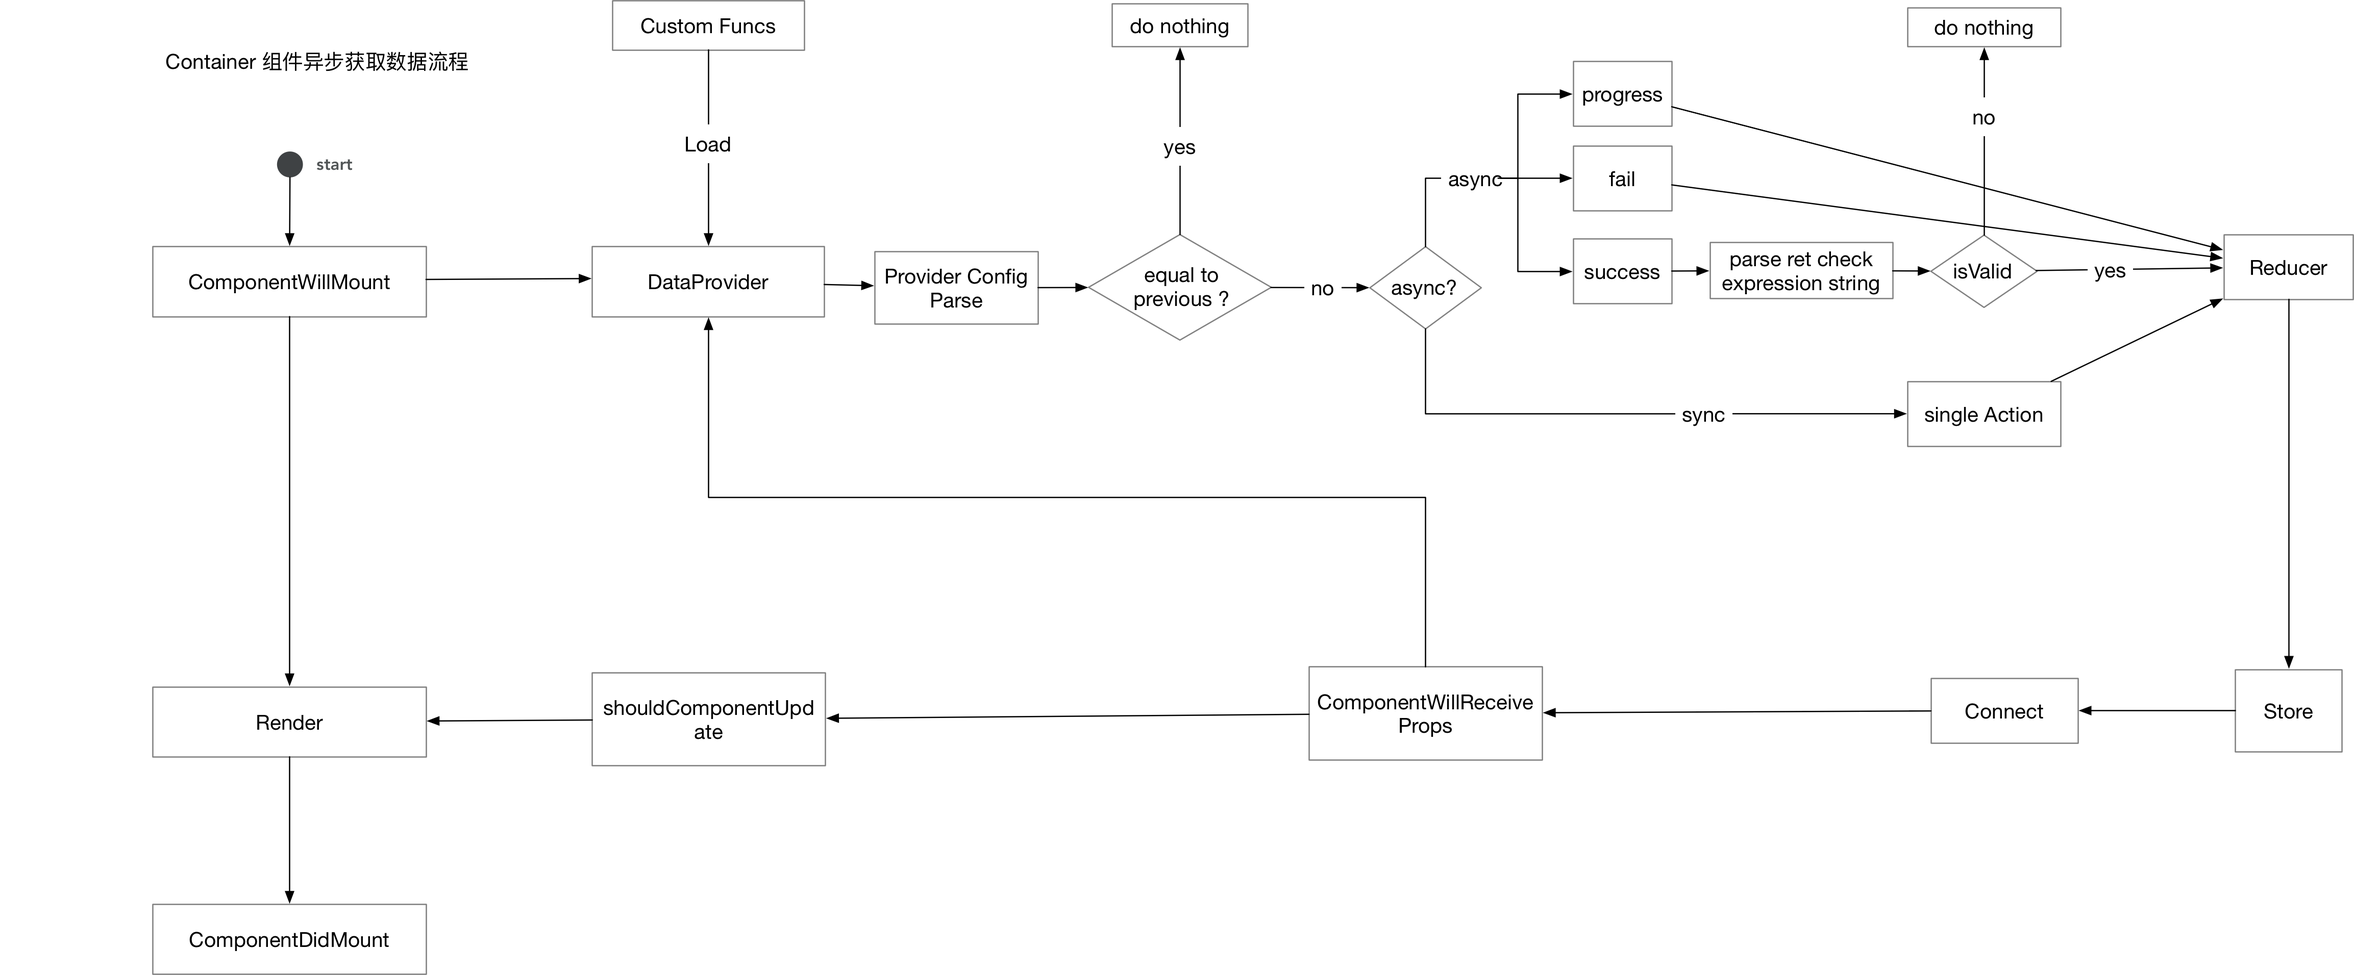
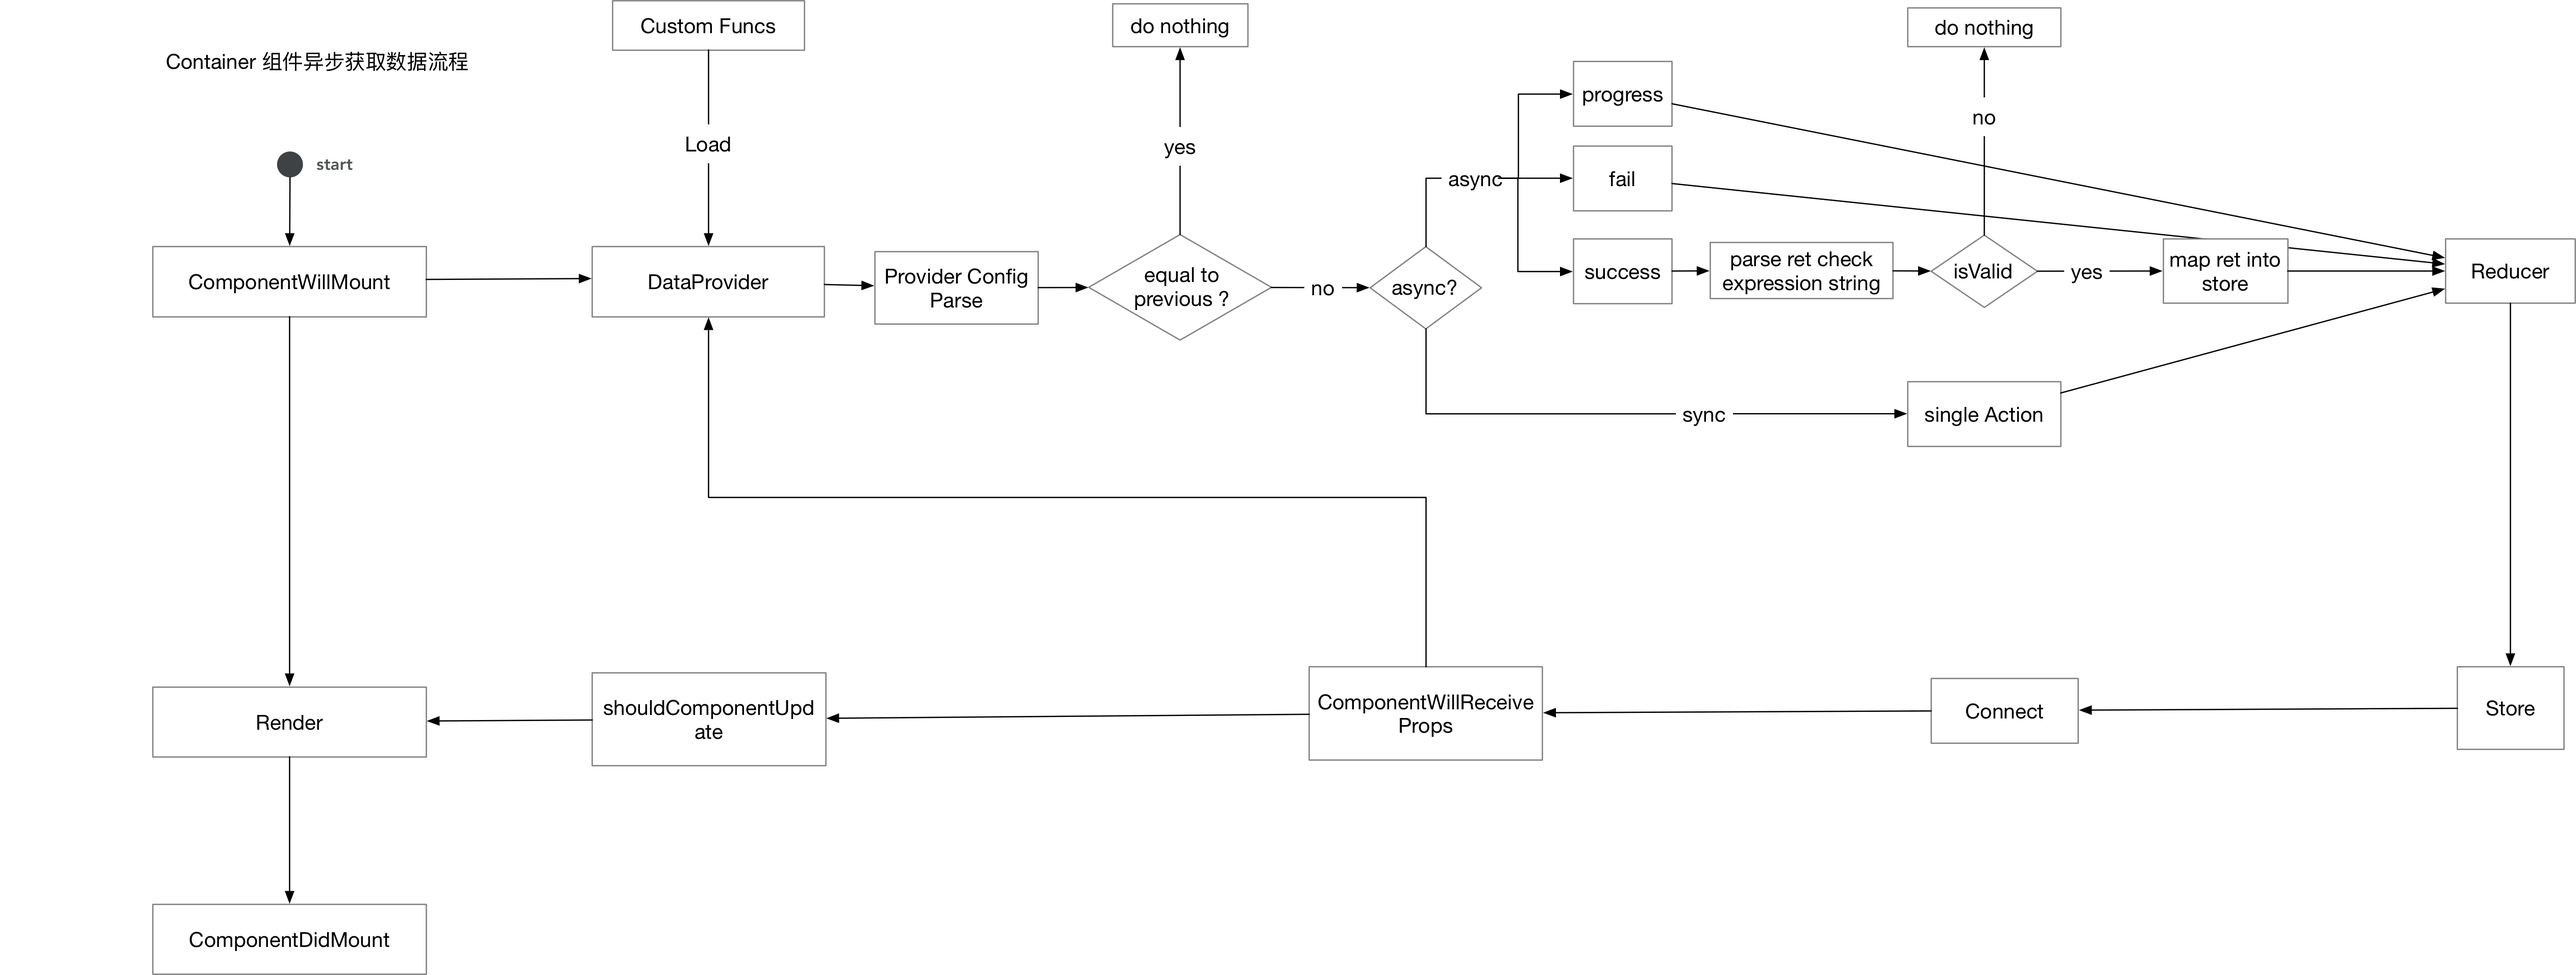
upgrade new DataFlow Design

diff --git a/src/render/core/Container/index.tsx b/src/render/core/Container/index.tsx
@@ -3,12 +3,13 @@ import * as _ from 'lodash';
 import {BasicContainer, BasicContainerPropsInterface, ContainerProps} from './types';
 import {connect} from 'react-redux';
 import {bindActionCreators, Dispatch} from 'redux';
-import {actionCreators, IAction, SET_DATA_LIST_PAYLOAD} from './action';
+import {actionCreators, IAction} from './action';
 import {RootState} from '../../data/reducers';
 import {Map} from 'immutable';
-import {compileValueExpress, keepExpressionData} from '../../util/vm';
+// import {compileValueExpress, keepExpressionData} from '../../util/vm';
 import {createChild} from '../../util/createChild';
 import {DataProvider} from '../DataProvider/Controller';
+import {ContainerPropsInterface} from '../../../abstractComponents/Container/Container';
 
 // First Init Life Circle:
 // ComponentWillMount -> Render -> ComponentDidMount
@@ -60,10 +61,6 @@ class Container extends BasicContainer<ContainerProps, {}> {
     }
 
     async componentWillReceiveProps(nextProps: ContainerProps) {
-        if (this.props.$parent !== nextProps.$parent) {
-            this.syncUpdateData(this.props.info.model!, nextProps);   
-        }
-
         const providerActions = {
             setDataList: this.props.setDataList,
             asyncLoadDataProgress: this.props.asyncLoadDataProgress,
@@ -125,38 +122,38 @@ class Container extends BasicContainer<ContainerProps, {}> {
         );
     }
 
-    /**
-     * Update data When ComponentWillReceiveProps
-     * This function will parse the expression string in data property from JSON
-     * including $parent and $response
-     * Then call this.props.setDataList to update data
-     *
-     * @param {string} model
-     * @param {ContainerProps} props
-     */
-    private syncUpdateData(model: string, props: ContainerProps) {
-        if (!props.info.data) {
-            props.info.data = {};
-        }
-
-        let updateExpression = keepExpressionData(props.info.data);
-
-        if (!_.isEmpty(updateExpression)) {
-            let updateData = compileValueExpress(updateExpression, {
-                $parent: props.$parent.toObject(),
-                $data: props.$data.toObject()
-            });
-
-            let payloads: SET_DATA_LIST_PAYLOAD = [];
-            _.each(updateData, (val, name) => {
-                payloads.push({
-                    type: name,
-                    newValue: val
-                });
-            });
-            this.props.setDataList(payloads, model);
-        }
-    }
+    // /**
+    //  * Update data When ComponentWillReceiveProps
+    //  * This function will parse the expression string in data property from JSON
+    //  * including $parent and $response
+    //  * Then call this.props.setDataList to update data
+    //  *
+    //  * @param {string} model
+    //  * @param {ContainerProps} props
+    //  */
+    // private syncUpdateData(model: string, props: ContainerProps) {
+    //     if (!props.info.data) {
+    //         props.info.data = {};
+    //     }
+    //
+    //     let updateExpression = keepExpressionData(props.info.data);
+    //
+    //     if (!_.isEmpty(updateExpression)) {
+    //         let updateData = compileValueExpress(updateExpression, {
+    //             $parent: props.$parent.toObject(),
+    //             $data: props.$data.toObject()
+    //         });
+    //
+    //         let payloads: SET_DATA_LIST_PAYLOAD = [];
+    //         _.each(updateData, (val, name) => {
+    //             payloads.push({
+    //                 type: name,
+    //                 newValue: val
+    //             });
+    //         });
+    //         this.props.setDataList(payloads, model);
+    //     }
+    // }
     
     private handleChange(key: string, value: any) {
         this.props.setData({
@@ -184,7 +181,8 @@ const mapDispatchToProps = (dispatch: Dispatch<IAction>) => bindActionCreators({
     syncLoadDataFail: actionCreators.syncLoadDataFail
 }, dispatch);
 
-const mergeProps = (stateProps: any, dispatchProps: any, ownProps: any): any => {
+const mergeProps = 
+    (stateProps: Object, dispatchProps: ContainerProps, ownProps: ContainerPropsInterface): ContainerProps => {
     let parentProps = ownProps.$data || Map({});
 
     return Object.assign({}, ownProps, stateProps, dispatchProps, {

diff --git a/src/render/core/DataProvider/Controller.ts b/src/render/core/DataProvider/Controller.ts
@@ -16,6 +16,11 @@ export interface ProviderSourceConfig {
     config?: any;
 }
 
+export interface ProviderCommonConfig {
+    retCheckPattern?: string;
+    retMapping?: Object;
+}
+
 /**
  * Provider 对象全局配置
  */
@@ -61,15 +66,26 @@ export interface ProviderActions {
 export interface BasicSyncProviderInterface {
     configCheck(provider: ProviderSourceConfig): boolean;
     retCheck(ret: Object, provider: ProviderSourceConfig): boolean;
-    parse(provider: ProviderSourceConfig, config: ContainerProps): ProviderSourceConfig;
+    retParse(ret: Object, provider: ProviderSourceConfig, props: ContainerProps, context: any): Object;
+    parse(provider: ProviderSourceConfig, config: ContainerProps, context: any): ProviderSourceConfig;
     run (provider: ProviderSourceConfig, options?: ProviderGlobalOptions): any;
 }
 
 export interface BasicAsyncProviderInterface {
     configCheck(provider: ProviderSourceConfig): boolean;
     retCheck(ret: Object, provider: ProviderSourceConfig): boolean;
-    parse(provider: ProviderSourceConfig, config: ContainerProps): ProviderSourceConfig;
+    retParse(ret: Object, provider: ProviderSourceConfig, props: ContainerProps, context: any): Object;
+    parse(provider: ProviderSourceConfig, config: ContainerProps, context: any): ProviderSourceConfig;
     run (provider: ProviderSourceConfig, options?: ProviderGlobalOptions): Promise<any>;
+}
+
+export function getCommonExpressionStringVariable(props: ContainerProps, context: any) {
+    return {
+        $data: props.$data.toObject,
+        $query: context.$query,
+        $location: context.$location,
+        $global: context.$global
+    };
 }
 
 /**
@@ -114,7 +130,7 @@ export class DataProvider {
             return;
         }
 
-        let parsedConfig = provider.parse(providerConfig, props);
+        let parsedConfig = provider.parse(providerConfig, props, context);
 
         // 如果provider数据配置和上次相同, 就必须阻止以后的操作.
         // 不然就会死循环
@@ -145,6 +161,8 @@ export class DataProvider {
             }
             
             let isRetValid = provider.retCheck(ret, providerConfig);
+            
+            ret = provider.retParse(ret, providerConfig, props, context);
             
             if (!isRetValid) {
                 actions.asyncLoadDataFail({

diff --git a/src/render/core/DataProvider/providers/ajax.ts b/src/render/core/DataProvider/providers/ajax.ts
@@ -1,14 +1,15 @@
 import {
-    BasicAsyncProviderInterface, ProviderGlobalOptions, ProviderSourceConfig
+    BasicAsyncProviderInterface, getCommonExpressionStringVariable, ProviderCommonConfig, ProviderGlobalOptions,
+    ProviderSourceConfig
 } from '../Controller';
 import {AxiosRequestConfig, AxiosResponse} from 'axios';
-import {ContainerProps, RequestConfig} from '../../Container/types';
+import {ContainerProps} from '../../Container/types';
 import {request} from '../../../services/api';
 import * as _ from 'lodash';
 import {compileValueExpress, parseExpressString} from '../../../util/vm';
 
 export interface AjaxProviderSourceConfig extends ProviderSourceConfig {
-    config: RequestConfig;
+    config: ProviderCommonConfig & AxiosRequestConfig;
 }
 
 export class AjaxDataProvider implements BasicAsyncProviderInterface {
@@ -28,12 +29,10 @@ export class AjaxDataProvider implements BasicAsyncProviderInterface {
         return true;
     }
     
-    parse(provider: AjaxProviderSourceConfig, props: ContainerProps) {
+    parse(provider: AjaxProviderSourceConfig, props: ContainerProps, context: any) {
         let copy = _.cloneDeep(provider);
         
-        copy.config = compileValueExpress(copy.config, {
-            $data: props.$data.toObject()
-        });
+        copy.config = compileValueExpress(copy.config, getCommonExpressionStringVariable(props, context));
         
         return copy;
     }
@@ -47,6 +46,16 @@ export class AjaxDataProvider implements BasicAsyncProviderInterface {
         return parseExpressString(pattern, {
             $response: ret
         }) === true;
+    }
+
+    retParse(ret: Object, provider: ProviderSourceConfig, props: ContainerProps, context: any) {
+        let retMapping = provider.config.retMapping;
+        
+        if (!retMapping) {
+            return ret;
+        }
+        
+        return compileValueExpress(retMapping, getCommonExpressionStringVariable(props, context));
     }
 
     async run(provider: AjaxProviderSourceConfig, options: ProviderGlobalOptions = {}) {

diff --git a/src/render/core/DataProvider/providers/init.ts b/src/render/core/DataProvider/providers/init.ts
@@ -1,4 +1,8 @@
-import {BasicSyncProviderInterface, ProviderGlobalOptions, ProviderSourceConfig} from '../Controller';
+import {
+    BasicSyncProviderInterface,
+    ProviderGlobalOptions,
+    ProviderSourceConfig
+} from '../Controller';
 import {ContainerProps} from '../../Container/types';
 import {compileValueExpress, filterExpressionData} from '../../../util/vm';
 import * as _ from 'lodash';
@@ -9,7 +13,14 @@ export class InitDataProvider implements BasicSyncProviderInterface {
         return true;
     }
 
-    parse(provider: ProviderSourceConfig, props: ContainerProps) {
+    parse(provider: ProviderSourceConfig, props: ContainerProps, context: any) {
+        let data = provider.config;
+        
+        provider.config = compileValueExpress(data, {
+            $parent: props.$parent.toObject(),
+            $data: filterExpressionData(_.cloneDeep(data))
+        });
+        
         // 初始化只初始化纯字面量
         return provider;
     }
@@ -18,11 +29,13 @@ export class InitDataProvider implements BasicSyncProviderInterface {
         return !_.isEmpty(ret);
     }
 
+    retParse(ret: Object, provider: ProviderSourceConfig, props: ContainerProps, context: any) {
+        return ret;
+    }
+
     run (provider: ProviderSourceConfig, options?: ProviderGlobalOptions) {
          let data = provider.config;
-         data = compileValueExpress(data, {
-             $data: filterExpressionData(_.cloneDeep(data))
-         });
+        
          return filterExpressionData(data);
     }
 }

diff --git a/src/render/core/Container/types.tsx b/src/render/core/Container/types.tsx
@@ -5,7 +5,6 @@ import {Map} from 'immutable';
 import * as PropTypes from 'prop-types';
 import * as React from 'react';
 import * as _ from 'lodash';
-import {AxiosRequestConfig} from 'axios';
 import {ContainerConfig} from '../../../abstractComponents/Container/Container';
 import {compileValueExpress} from '../../util/vm';
 
@@ -15,10 +14,6 @@ export type originJSONType = rawJSONType | rawJSONType[];
 export type defaultData = {
     [s: string]: originJSONType
 };
-
-export interface RequestConfig extends AxiosRequestConfig {
-    retCheckPattern?: string;
-}
 
 export class BasicConfig {
     @IsString()

diff --git a/src/App.tsx b/src/App.tsx
@@ -38,7 +38,7 @@ class App extends React.Component<{}, AppStateInterface> {
         super();
 
         this.state = {
-            code: jsonformat(basicContainerConfig)
+            code: jsonformat(nestContainerConfig)
         };
 
         this.onJSONEditorChange = this.onJSONEditorChange.bind(this);
